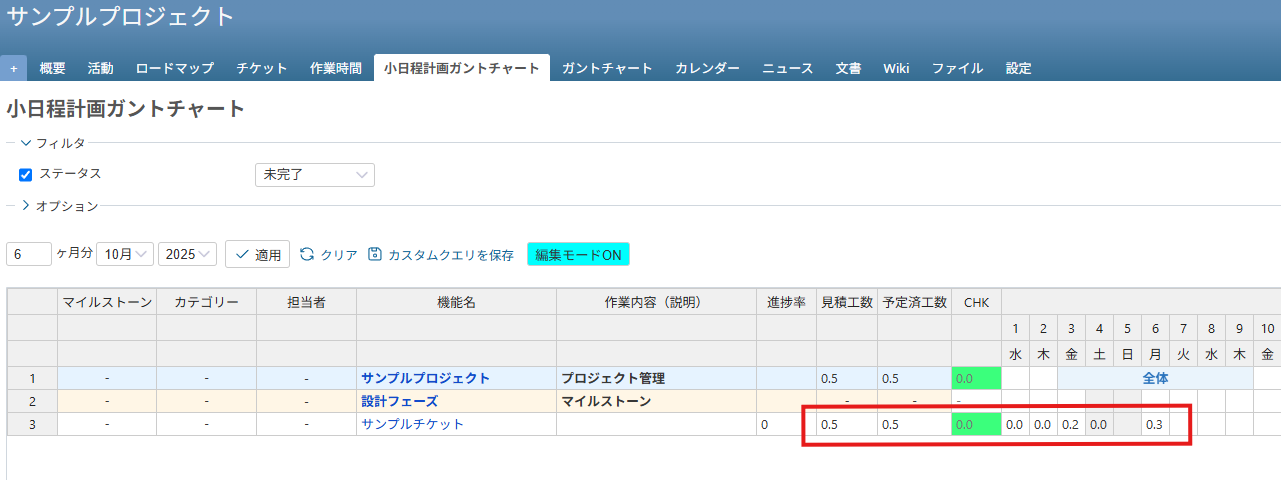
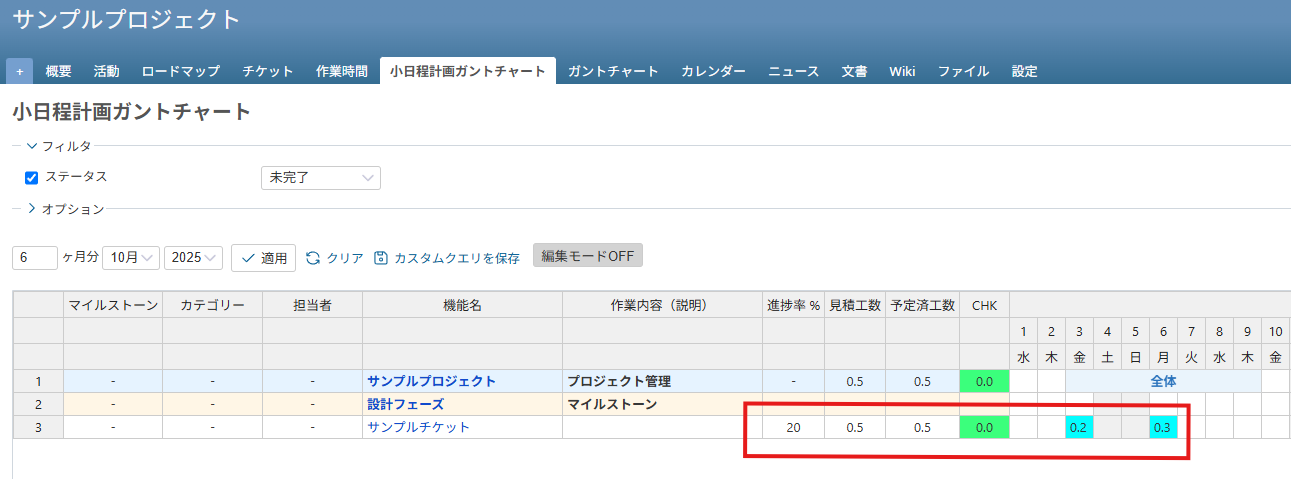
プラグインの理念を反映した内容に更新

diff --git a/README.md b/README.md
@@ -51,27 +51,33 @@
 3. チケットを作成する
 ![新しいチケット](image/README/new_ticket.png)
 
-4. プロジェクトの全体スケジュールを作成する
+4. プロジェクトに全体スケジュールを設定する
 
-    機能名列、1行目のリンク（サンプルプロジェクトの部分）をクリックする
+    - 機能名列、1行目のリンク（サンプルプロジェクトの部分）をクリックする
 ![プロジェクト管理](image/README/project_control.png)
 
-5. 開始日と期日を設定する
+    - 開始日と期日を設定する
 ![プロジェクト詳細](image/README/project_detail.png)
 
-6. 開始日と期日に設定した期間のセルがマージされる
+    - 開始日と期日に設定した期間がセルに表示される
 ![プロジェクト管理行のセルをマージ](image/README/project_merge.png)
 
-7. 編集モードをONにする
+5. 編集モードをONにする
     - 画面が読み込まれただけではセルの値を書き換えられません。書き換えるためには編集モードボタンをクリックしてONとOFFを切り替える必要があります
     ガントチャート内の入力値の保存は、カーソルがセルから離れるたびに保存されます。そのため、最後に編集したセルからカーソルを離さずに他のページに移動すると変更は失われてしまいます
     - 最後に編集したセルからクリックでもエンターでも構わないのでカーソルを移動させる必要があります
 ![編集モード](image/README/edit_mode.png)
 
-8. 見積工数と予定済工数とCHKを設定する
-
-    - 日付セルに入力された値の合計値が予定済工数に自動的に計算されます
-CHKは予定済工数 - 見積工数が自動的に計算されます
+6. チケットの予実管理をする
+    - 見積工数に対象タスクの見積工数を入力する
+    - スケジュール欄にてその日に実施する予定工数（人日）を入力する
+    - 予定済工数に、日付セルに入力された値の合計値が自動計算されます
+    - CHK欄に、見積工数と予定済工数の差が表示され、割当状況がチェックできます  
+      ※予定済工数が見積工数より増えれば見積ミス or 管理ミスと判断できます  
+      ※プロジェクト管理も同様に、見積工数と予定済工数のチェックができます  
+    - 実績は進捗率欄に進捗率を入力して管理します  
+      ※当ガントチャートは予定重視の管理手法となります  
+      ※状況を常に反映して、実現性・再現性のあるスケジュールに随時変更してください  
 ![自動計算](image/README/calculate.png)
 
 
@@ -85,3 +91,6 @@ Company website: [https://sl-inc.co.jp](https://sl-inc.co.jp)
 
 For bug reports or inquiries, please contact: 
 **rp-rdsg-support@sl-inc.co.jp**
+
+For project management consulting or collaboration inquiries, please contact:
+**info@sl-inc.co.jp**
